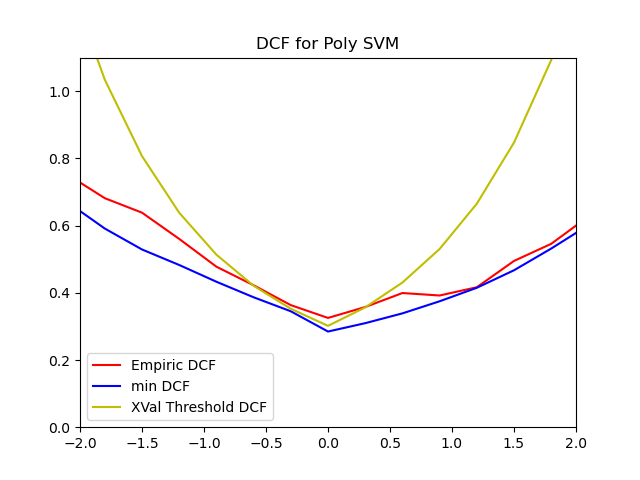
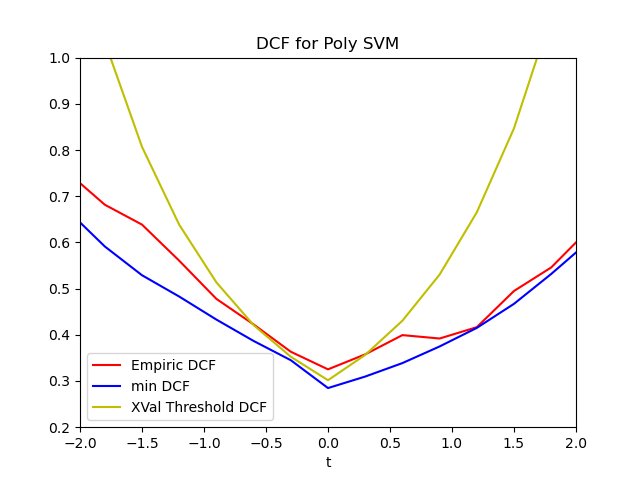
feat(test): adjust parameters in test case, generate plots

diff --git a/projectFiles/test_svm.py b/projectFiles/test_svm.py
@@ -30,7 +30,7 @@ prior_1 = 0.5
 
 #SVM MODELS
 
-optimal_m = 11
+optimal_m = 10
 optimal_K = 1
 optimal_C = 1
 reduced_normalized_dtr, P = pca(normalized_dtr, optimal_m)
@@ -43,26 +43,36 @@ svm_l.test()
 #DCF EMPIRICO
 empiric_dcf = svm_l.compute_dcf()
 #DCF XVAL THRESHOLD
-xvalthreshold_dcf = svm_l.compute_dcf(-0.3716369466883391)
+xvalthreshold_dcf = svm_l.compute_dcf(-0.5213549363675212)
 #DCF MINIMO
 min_dcf = svm_l.compute_min_dcf()[0]
 
 #DCF CALIBRATO
-w = numpy.array([1.37358556])
-b = 0.5886980606735804
+w = numpy.array([1.28695066])
+b = 0.5594431552202703
 calibrated_scores = w * svm_l.score[0] + b
 confusion_matrix = compute_confusion_matrix_binary(svm_l.LTE, calibrated_scores, prior_1, 1, 1)
+
 calibrated_dcf = compute_normalized_dcf_binary(confusion_matrix, prior_1, 1, 1)
 
 #DCF CALIBRATO MIN
 calibrated_min_dcf = compute_min_dcf(svm_l.LTE,calibrated_scores, prior_1, 1, 1)[0]
 
-bayes_error_plots("DCF for Linear SVM", svm_l.LTE, svm_l.score[0], validation_threshold = -0.3716369466883391, calibrated_scores = calibrated_scores)
+bayes_error_plots("DCF for Linear SVM", svm_l.LTE, svm_l.score[0], validation_threshold = -0.5213549363675212, calibrated_scores = calibrated_scores)
+
+
+Printer.print_title("SVM linear data")
+Printer.print_line(f"DCF: {empiric_dcf}")
+Printer.print_line(f"DCF xval: {xvalthreshold_dcf}")
+Printer.print_line(f"DCF min: {min_dcf}")
+Printer.print_line(f"DCF calibrated: {calibrated_dcf}")
+Printer.print_empty_lines(1)
 
 
 #------------------------------------------------
 
-""" optimal_m = 10
+
+optimal_m = 10
 optimal_K = 1
 optimal_C = 1
 optimal_c = 1
@@ -82,6 +92,12 @@ xvalthreshold_dcf = svm_p.compute_dcf(-0.30825297694737075)
 min_dcf = svm_p.compute_min_dcf()[0]
 
 bayes_error_plots("DCF for Poly SVM", svm_p.LTE, svm_p.score, validation_threshold = -0.30825297694737075)
+
+Printer.print_title("SVM polynomial data")
+Printer.print_line(f"DCF: {empiric_dcf}")
+Printer.print_line(f"DCF xval: {xvalthreshold_dcf}")
+Printer.print_line(f"DCF min: {min_dcf}")
+Printer.print_empty_lines(1)
 
 #------------------------------------------------
 
@@ -103,19 +119,9 @@ xvalthreshold_dcf = svm_rbf.compute_dcf(6.985426439970719e-07)
 #DCF MINIMO
 min_dcf = svm_rbf.compute_min_dcf()[0]
 
-bayes_error_plots("DCF for RBF SVM", svm_rbf.LTE, svm_rbf.score, validation_threshold = 6.985426439970719e-07) """
+bayes_error_plots("DCF for RBF SVM", svm_rbf.LTE, svm_rbf.score, validation_threshold = 6.985426439970719e-07)
 
 
-Printer.print_title("SVM linear data")
-Printer.print_line(f"DCF calibrated: {calibrated_dcf}")
-Printer.print_line(f"DCF calibrated min: {calibrated_min_dcf}")
-Printer.print_empty_lines(1)
-
-Printer.print_title("SVM polynomial data")
-Printer.print_line(f"DCF: {empiric_dcf}")
-Printer.print_line(f"DCF xval: {xvalthreshold_dcf}")
-Printer.print_line(f"DCF min: {min_dcf}")
-Printer.print_empty_lines(1)
 
 Printer.print_title("SVM RBF data")
 Printer.print_line(f"DCF: {empiric_dcf}")

diff --git a/projectFiles/utilityML/Functions/bayes.py b/projectFiles/utilityML/Functions/bayes.py
@@ -123,7 +123,8 @@ def bayes_error_plots(plot_name, labels, scores, validation_threshold = None, ca
 	
 	plt.figure()
 
-	""" if(calibrated == False): """
+	
+	plt.xlabel("t")
 	plt.plot(effPriorLogOdds, DCF_array, label="Empiric DCF", color='r') 
 	plt.plot(effPriorLogOdds, DCF_min_array, label="min DCF", color='b')
 	if(validation_threshold != None):
@@ -131,12 +132,6 @@ def bayes_error_plots(plot_name, labels, scores, validation_threshold = None, ca
 	
 	if(calibrated_scores is not None):
 		plt.plot(effPriorLogOdds, DCF_calibrated, label="Calibrated DCF", color='g')
-
-	""" else:
-		plt.plot(effPriorLogOdds, DCF_array, label="Empiric Calibrated DCF", color='r') 
-		plt.plot(effPriorLogOdds, DCF_min_array, label="min Calibrated DCF", color='b')
-		if(validation_threshold != None):
-			plt.plot(effPriorLogOdds, DCF_validation, label="XVal Threshold Calibrated DCF", color='y') """
 
 	
 

diff --git a/projectFiles/test_gmm.py b/projectFiles/test_gmm.py
@@ -41,8 +41,6 @@ optimal_psi = 0.01
 reduced_dtr, P = pca(DTR, optimal_m)
 reduced_dte = numpy.dot(P.T, DTE)
 
-print(int(numpy.log2(optimal_comp)))
-
 gmm = GMM(reduced_dtr, LTR, reduced_dte, LTE, [prior_0, prior_1], iterations=int(numpy.log2(optimal_comp)), alpha=optimal_alpha, psi=optimal_psi, typeOfGmm=optimal_cov)
 gmm.train()
 gmm.test()
@@ -55,10 +53,11 @@ xvalthreshold_dcf = gmm.compute_dcf(-0.09985079274315645)
 min_dcf = gmm.compute_min_dcf()[0]
 
 
-
-
 Printer.print_title("GMM data")
 Printer.print_line(f"DCF: {empiric_dcf}")
 Printer.print_line(f"DCF xval: {xvalthreshold_dcf}")
 Printer.print_line(f"DCF min: {min_dcf}")
 Printer.print_empty_lines(1)
+
+
+bayes_error_plots("DCF For GMM", gmm.LTE, gmm.llrs, validation_threshold = -0.09985079274315645)

diff --git a/projectFiles/test_logreg.py b/projectFiles/test_logreg.py
@@ -49,8 +49,8 @@ xvalthreshold_dcf = log_reg.compute_dcf(prior_1, -0.7029942351576266)
 min_dcf = log_reg.compute_min_dcf(prior_1)[0]
 
 #DCF CALIBRATO
-w = numpy.array([1.17207572])
-b = 0.7965104267331936
+w = numpy.array([1.10892441])
+b = 0.7514991780163697
 
 calibrated_scores = w * log_reg.S + b
 
@@ -69,7 +69,6 @@ Printer.print_line(f"DCF: {empiric_dcf}")
 Printer.print_line(f"DCF xval: {xvalthreshold_dcf}")
 Printer.print_line(f"DCF min: {min_dcf}")
 Printer.print_line(f"DCF calibrated: {calibrated_dcf}")
-Printer.print_line(f"DCF calibrated xval: {calibrated_xvalthreshold_dcf}")
 Printer.print_empty_lines(1)
 
 
